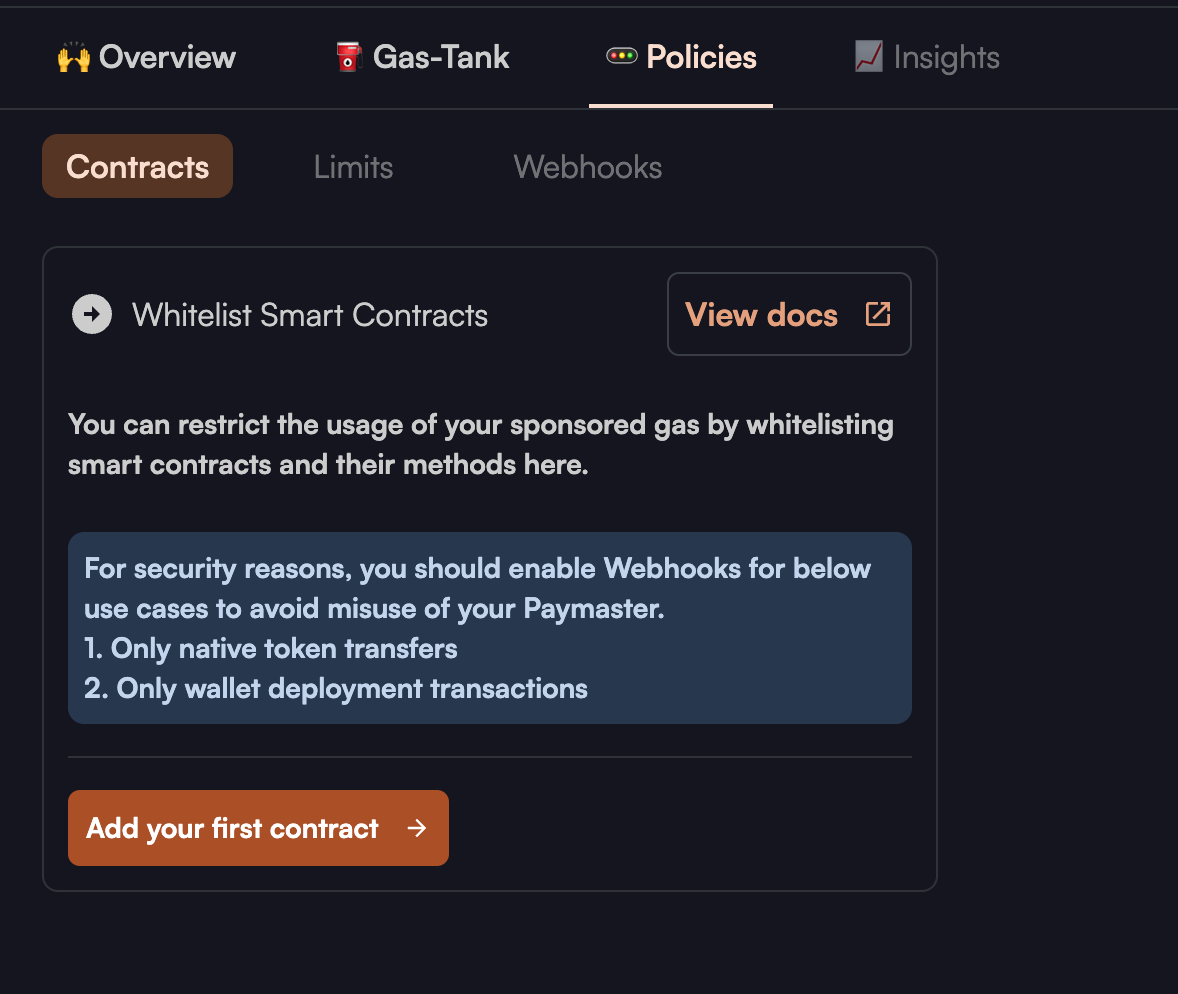
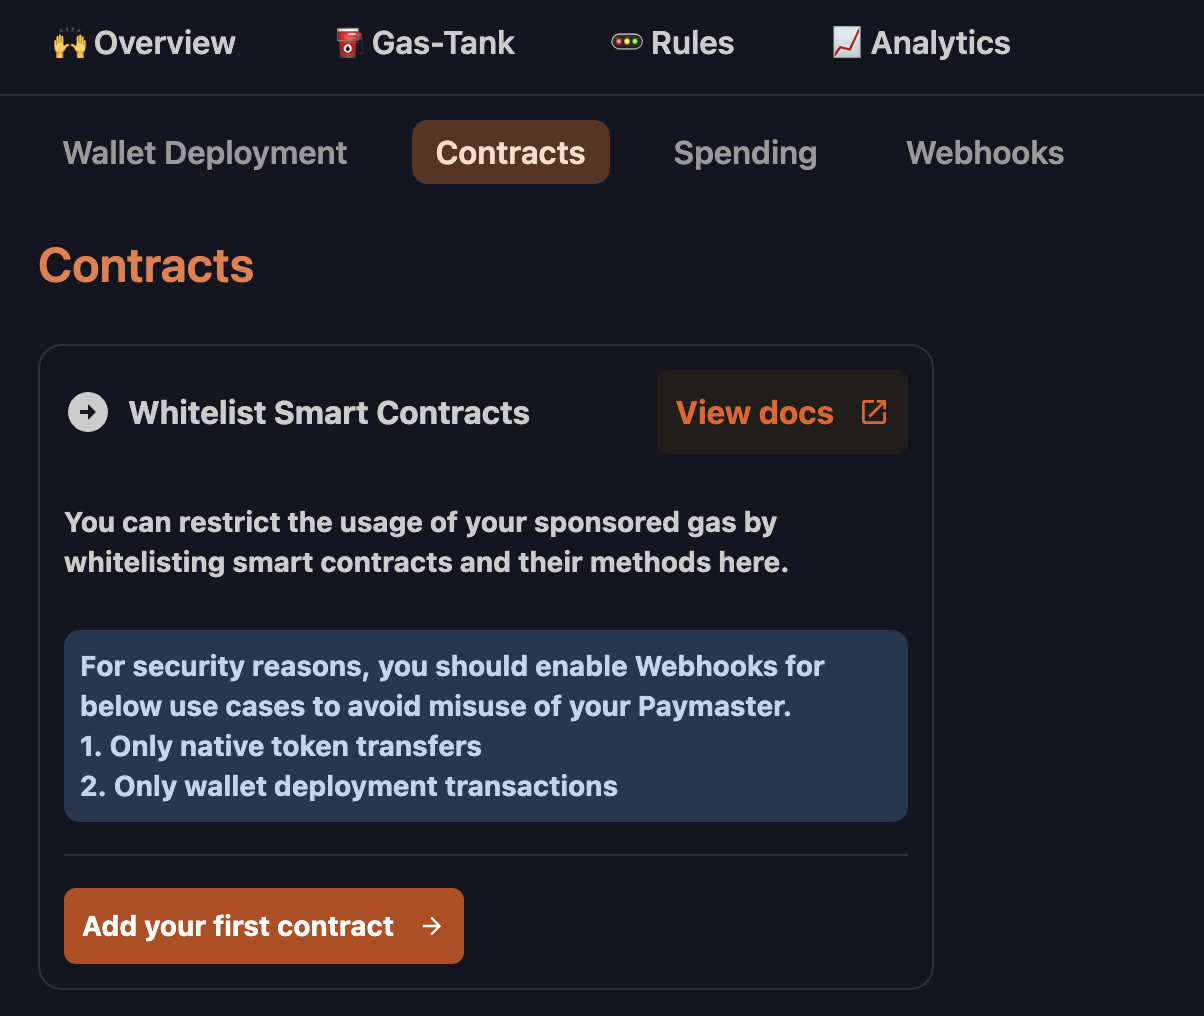
feat: adds spending limits page

diff --git a/docs/dashboard/spendingLimits.md b/docs/dashboard/spendingLimits.md
@@ -1,0 +1,28 @@
+---
+sidebar_label: "Spending Limits"
+sidebar_position: 4
+---
+
+# Add a global limit
+
+Navigate to the Paymaster you have created, then click rules and spending. If this is the first time you are adding a limit the page will look like this:
+
+![new limit](../images/limits/new_limit.png)
+
+Click on Add limit button inside Global Limit card and the new global limit modal will appear.
+Inside the modal you will be presented with the option of choosing:
+
+- Threshold type (Gas Spend | Number of user operations)
+- Threshhold value
+- Cycle duration (minimum 1 hour, maximum 23 hours)
+
+After clicking Create button the limit will be created.
+
+![add global limit](../images/limits/global_limit_modal.png)
+
+## Add a user limit
+
+Click on Add limit button inside User Limit card and the new user limit modal will appear.
+Both the global and the user limit modals are very simiar and offer same options.
+
+![add user limit](../images/limits/user_limit_modal.png)

diff --git a/versioned_docs/version-3.0/dashboard/spendingLimits.md b/versioned_docs/version-3.0/dashboard/spendingLimits.md
@@ -1,0 +1,28 @@
+---
+sidebar_label: "Spending Limits"
+sidebar_position: 4
+---
+
+# Add a global limit
+
+Navigate to the Paymaster you have created, then click rules and spending. If this is the first time you are adding a limit the page will look like this:
+
+![new limit](../images/limits/new_limit.png)
+
+Click on Add limit button inside Global Limit card and the new global limit modal will appear.
+Inside the modal you will be presented with the option of choosing:
+
+- Threshold type (Gas Spend | Number of user operations)
+- Threshhold value
+- Cycle duration (minimum 1 hour, maximum 23 hours)
+
+After clicking Create button the limit will be created.
+
+![add global limit](../images/limits/global_limit_modal.png)
+
+## Add a user limit
+
+Click on Add limit button inside User Limit card and the new user limit modal will appear.
+Both the global and the user limit modals are very simiar and offer same options.
+
+![add user limit](../images/limits/user_limit_modal.png)

diff --git a/docs/dashboard/paymasterRules.md b/docs/dashboard/paymasterRules.md
@@ -1,15 +1,15 @@
 ---
-sidebar_label: "Paymaster Policies"
+sidebar_label: "Paymaster Rules"
 sidebar_position: 3
 ---
 
-# Paymaster Policies
+# Paymaster Rules
 
 Before using a Paymaster to sponsor a transaction you will need to register your smart contracts and white list the methods that will be called in your dApp.
 
 ## Register a Smart Contract
 
-Navigate to the Paymaster you have created, then click policies and contract. If this is the first time you are adding a smart contract the page will look like this:
+Navigate to the Paymaster you have created, then click rules and contract. If this is the first time you are adding a smart contract the page will look like this:
 
 ![new contract](../images/contracts/new_contract.png)
 

diff --git a/versioned_docs/version-3.0/dashboard/paymasterRules.md b/versioned_docs/version-3.0/dashboard/paymasterRules.md
@@ -1,15 +1,15 @@
 ---
-sidebar_label: "Paymaster Policies"
+sidebar_label: "Paymaster Rules"
 sidebar_position: 3
 ---
 
-# Paymaster Policies
+# Paymaster Rules
 
 Before using a Paymaster to sponsor a transaction you will need to register your smart contracts and white list the methods that will be called in your dApp.
 
 ## Register a Smart Contract
 
-Navigate to the Paymaster you have created, then click policies and contract. If this is the first time you are adding a smart contract the page will look like this:
+Navigate to the Paymaster you have created, then click rules and contract. If this is the first time you are adding a smart contract the page will look like this:
 
 ![new contract](../images/contracts/new_contract.png)
 

diff --git a/versioned_docs/version-3.0/account/transactions/batchedtransactions.md b/versioned_docs/version-3.0/account/transactions/batchedtransactions.md
@@ -11,7 +11,7 @@ This guide is an extension of our Gasless transaction guide with the addition of
 :::info
 This guide assumes you have already initialized the Biconomy SDK and just need to understand how to execute a user paid transaction. See our [tutorials](/tutorials) for step by step setups.
 
-Before using these code snippets make sure to [set up a paymaster](/dashboard/paymaster) and [register any smart contracts](/dashboard/paymasterPolicies) for sponsorship.
+Before using these code snippets make sure to [set up a paymaster](/dashboard/paymaster) and [register any smart contracts](/dashboard/paymasterRules) for sponsorship.
 :::
 
 ## Imports

diff --git a/versioned_docs/version-3.0/account/transactions/gasless.md b/versioned_docs/version-3.0/account/transactions/gasless.md
@@ -11,7 +11,7 @@ In this guide we will look at executing a gasless transaction utilizing our spon
 :::info
 This guide assumes you have already initialized the Biconomy SDK and just need to understand how to execute a user paid transaction. See our [tutorials](/tutorials) for step by step setups.
 
-Before using these code snippets make sure to [set up a paymaster](/dashboard/paymaster) and [register any smart contracts](/dashboard/paymasterPolicies) for sponsorship.
+Before using these code snippets make sure to [set up a paymaster](/dashboard/paymaster) and [register any smart contracts](/dashboard/paymasterRules) for sponsorship.
 :::
 
 ## Imports

diff --git a/docs/Account/smartAccountv1/tutorials/nextjs/dashboard.md b/docs/Account/smartAccountv1/tutorials/nextjs/dashboard.md
@@ -17,7 +17,7 @@ following:
 - Set up a Gas tank with some Base Goerli Eth. We recommend around .02 Eth to
   start.
 - Whitelist the `safeMint` method of the NFT smart contract under
-  [Paymaster Policies](https://docs.biconomy.io/docs/dashboard/paymasterPolicies)
+  [Paymaster Rules](https://docs.biconomy.io/docs/dashboard/paymasterRules)
   on the dashboard.
 
 :::info Missing any of the above steps causes a lot of

diff --git a/versioned_docs/version-3.0/account/smartAccountv1/tutorials/nextjs/dashboard.md b/versioned_docs/version-3.0/account/smartAccountv1/tutorials/nextjs/dashboard.md
@@ -17,7 +17,7 @@ following:
 - Set up a Gas tank with some Base Goerli Eth. We recommend around .02 Eth to
   start.
 - Whitelist the `safeMint` method of the NFT smart contract under
-  [Paymaster Policies](https://docs.biconomy.io/docs/dashboard/paymasterPolicies)
+  [Paymaster Rules](https://docs.biconomy.io/docs/dashboard/paymasterRules)
   on the dashboard.
 
 :::info Missing any of the above steps causes a lot of

diff --git a/versioned_docs/version-3.0/tutorials/nextjs/dashboard.md b/versioned_docs/version-3.0/tutorials/nextjs/dashboard.md
@@ -17,7 +17,7 @@ following:
 - Set up a Gas tank with some Base Goerli Eth. We recommend around .02 Eth to
   start.
 - Whitelist the `safeMint` method of the NFT smart contract under
-  [Paymaster Policies](https://docs.biconomy.io/docs/dashboard/paymasterPolicies)
+  [Paymaster Rules](https://docs.biconomy.io/docs/dashboard/paymasterRules)
   on the dashboard.
 
 :::info Missing any of the above steps causes a lot of

diff --git a/docs/Account/smartAccountv1/tutorials/React_vite/register.md b/docs/Account/smartAccountv1/tutorials/React_vite/register.md
@@ -16,5 +16,5 @@ following:
   bundler URL from dashboard.
 - Set up a Gas tank with at least 1-2 testnet Matic tokens.
 - Whitelisting the increment count method of the counter smart contract under
-  [Paymaster Policies](https://docs.biconomy.io/docs/dashboard/paymasterPolicies)
+  [Paymaster Rules](https://docs.biconomy.io/docs/dashboard/paymasterRules)
   on dashboard

diff --git a/versioned_docs/version-3.0/account/smartAccountv1/tutorials/React_vite/register.md b/versioned_docs/version-3.0/account/smartAccountv1/tutorials/React_vite/register.md
@@ -16,5 +16,5 @@ following:
   bundler URL from dashboard.
 - Set up a Gas tank with at least 1-2 testnet Matic tokens.
 - Whitelisting the increment count method of the counter smart contract under
-  [Paymaster Policies](https://docs.biconomy.io/docs/dashboard/paymasterPolicies)
+  [Paymaster Rules](https://docs.biconomy.io/docs/dashboard/paymasterRules)
   on dashboard

diff --git a/versioned_docs/version-3.0/tutorials/React_vite/register.md b/versioned_docs/version-3.0/tutorials/React_vite/register.md
@@ -16,5 +16,5 @@ following:
   bundler URL from dashboard.
 - Set up a Gas tank with at least 1-2 testnet Matic tokens.
 - Whitelisting the increment count method of the counter smart contract under
-  [Paymaster Policies](/dashboard/paymasterPolicies)
+  [Paymaster Rules](/dashboard/paymasterRules)
   on dashboard
